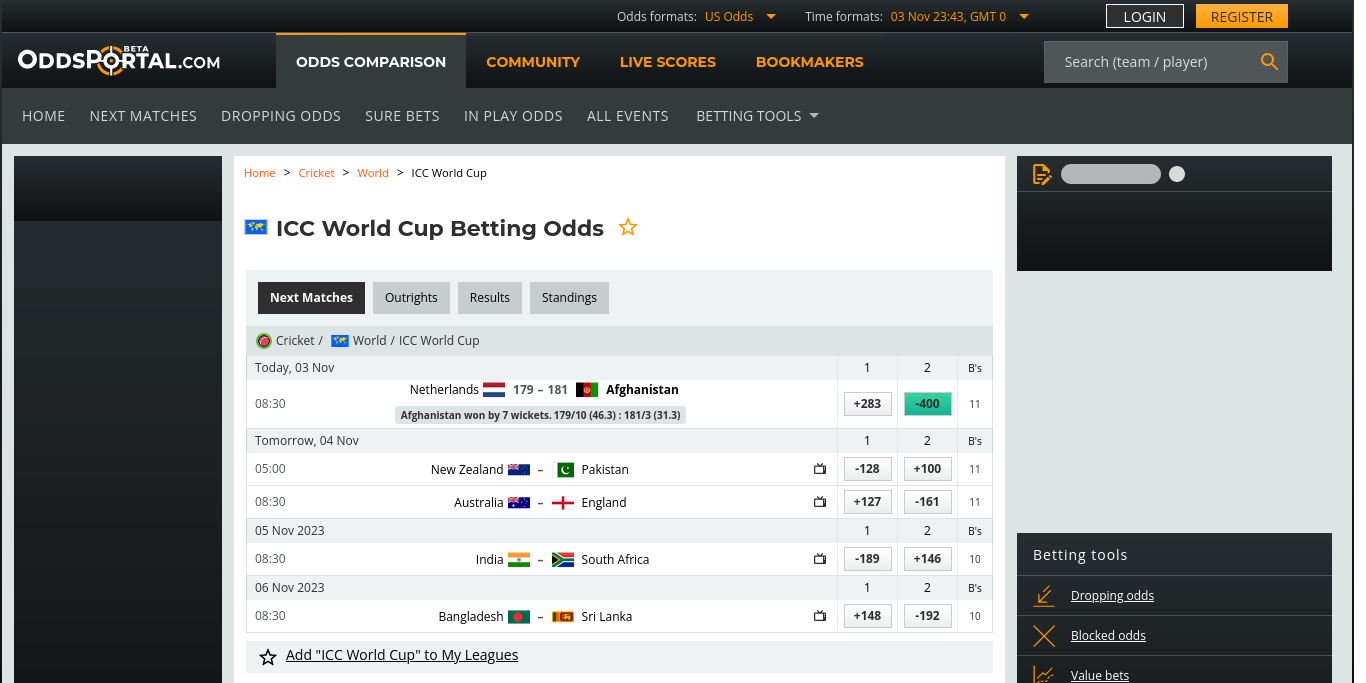
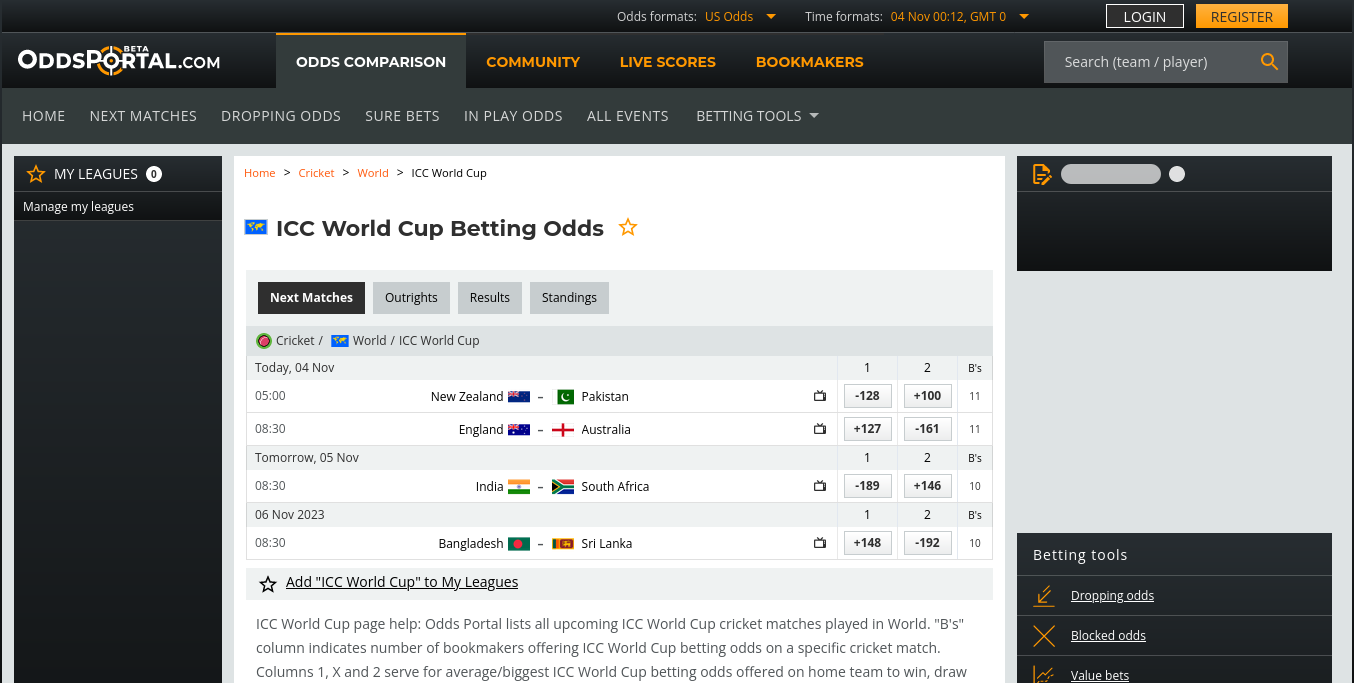
Update Data (Cron) Sat Nov  4 00:12:41 UTC 2023

diff --git a/src/nonview/data/TEAM1_ID_TO_TEAM2_ID_TO_ODDS_PAIR.js b/src/nonview/data/TEAM1_ID_TO_TEAM2_ID_TO_ODDS_PAIR.js
@@ -1,18 +1,15 @@
 // Auto Generated by UpdateTeam1IDToTeam2IDToOddsPair
 // https://www.oddsportal.com/cricket/world/icc-world-cup/
-// 2023-11-04 05:13:43 +0000
+// 2023-11-04 05:42:34 +0000
 
 import { TEAM } from "../core/Team.js";
 
 export const TEAM1_ID_TO_TEAM2_ID_TO_ODDS_PAIR = {
-  [TEAM.AFG.id]: {
-    [TEAM.NLD.id]: [1.25, 3.83],
-  },
   [TEAM.NZL.id]: {
     [TEAM.PAK.id]: [1.78, 2.00],
   },
-  [TEAM.ENG.id]: {
-    [TEAM.AUS.id]: [1.62, 2.27],
+  [TEAM.AUS.id]: {
+    [TEAM.ENG.id]: [1.62, 2.27],
   },
   [TEAM.IND.id]: {
     [TEAM.ZAF.id]: [1.53, 2.46],

diff --git a/src/nonview/constants/VERSION.js b/src/nonview/constants/VERSION.js
@@ -1,4 +1,4 @@
 // Auto-generated by javascript_version.py
-export const VERSION_UT = 1699055029;
+export const VERSION_UT = 1699056761;
 export const VERSION_DATETIME = new Date(VERSION_UT * 1_000);
 export const LAST_COMMIT_MESSAGE = "Updated 📊Data";

diff --git a/src/nonview/data/ODI_ID_TO_WINNER.js b/src/nonview/data/ODI_ID_TO_WINNER.js
@@ -1,6 +1,6 @@
 // Auto Generated by UpdateODIIDToWinner
 // https://www.cricbuzz.com/cricket-series/6732/icc-cricket-world-cup-2023/matches
-// 2023-11-04 05:13:26 +0000
+// 2023-11-04 05:42:17 +0000
 
 import { TEAM } from "../core/Team.js";
 

diff --git a/src/nonview/data/POINTS_TABLE.js b/src/nonview/data/POINTS_TABLE.js
@@ -1,6 +1,6 @@
 // Auto Generated by UpdatePointsTable
 // https://www.cricketworldcup.com/standings
-// 2023-11-04 05:13:35 +0000
+// 2023-11-04 05:42:26 +0000
 
 import { TEAM } from "../core/Team.js";
 
